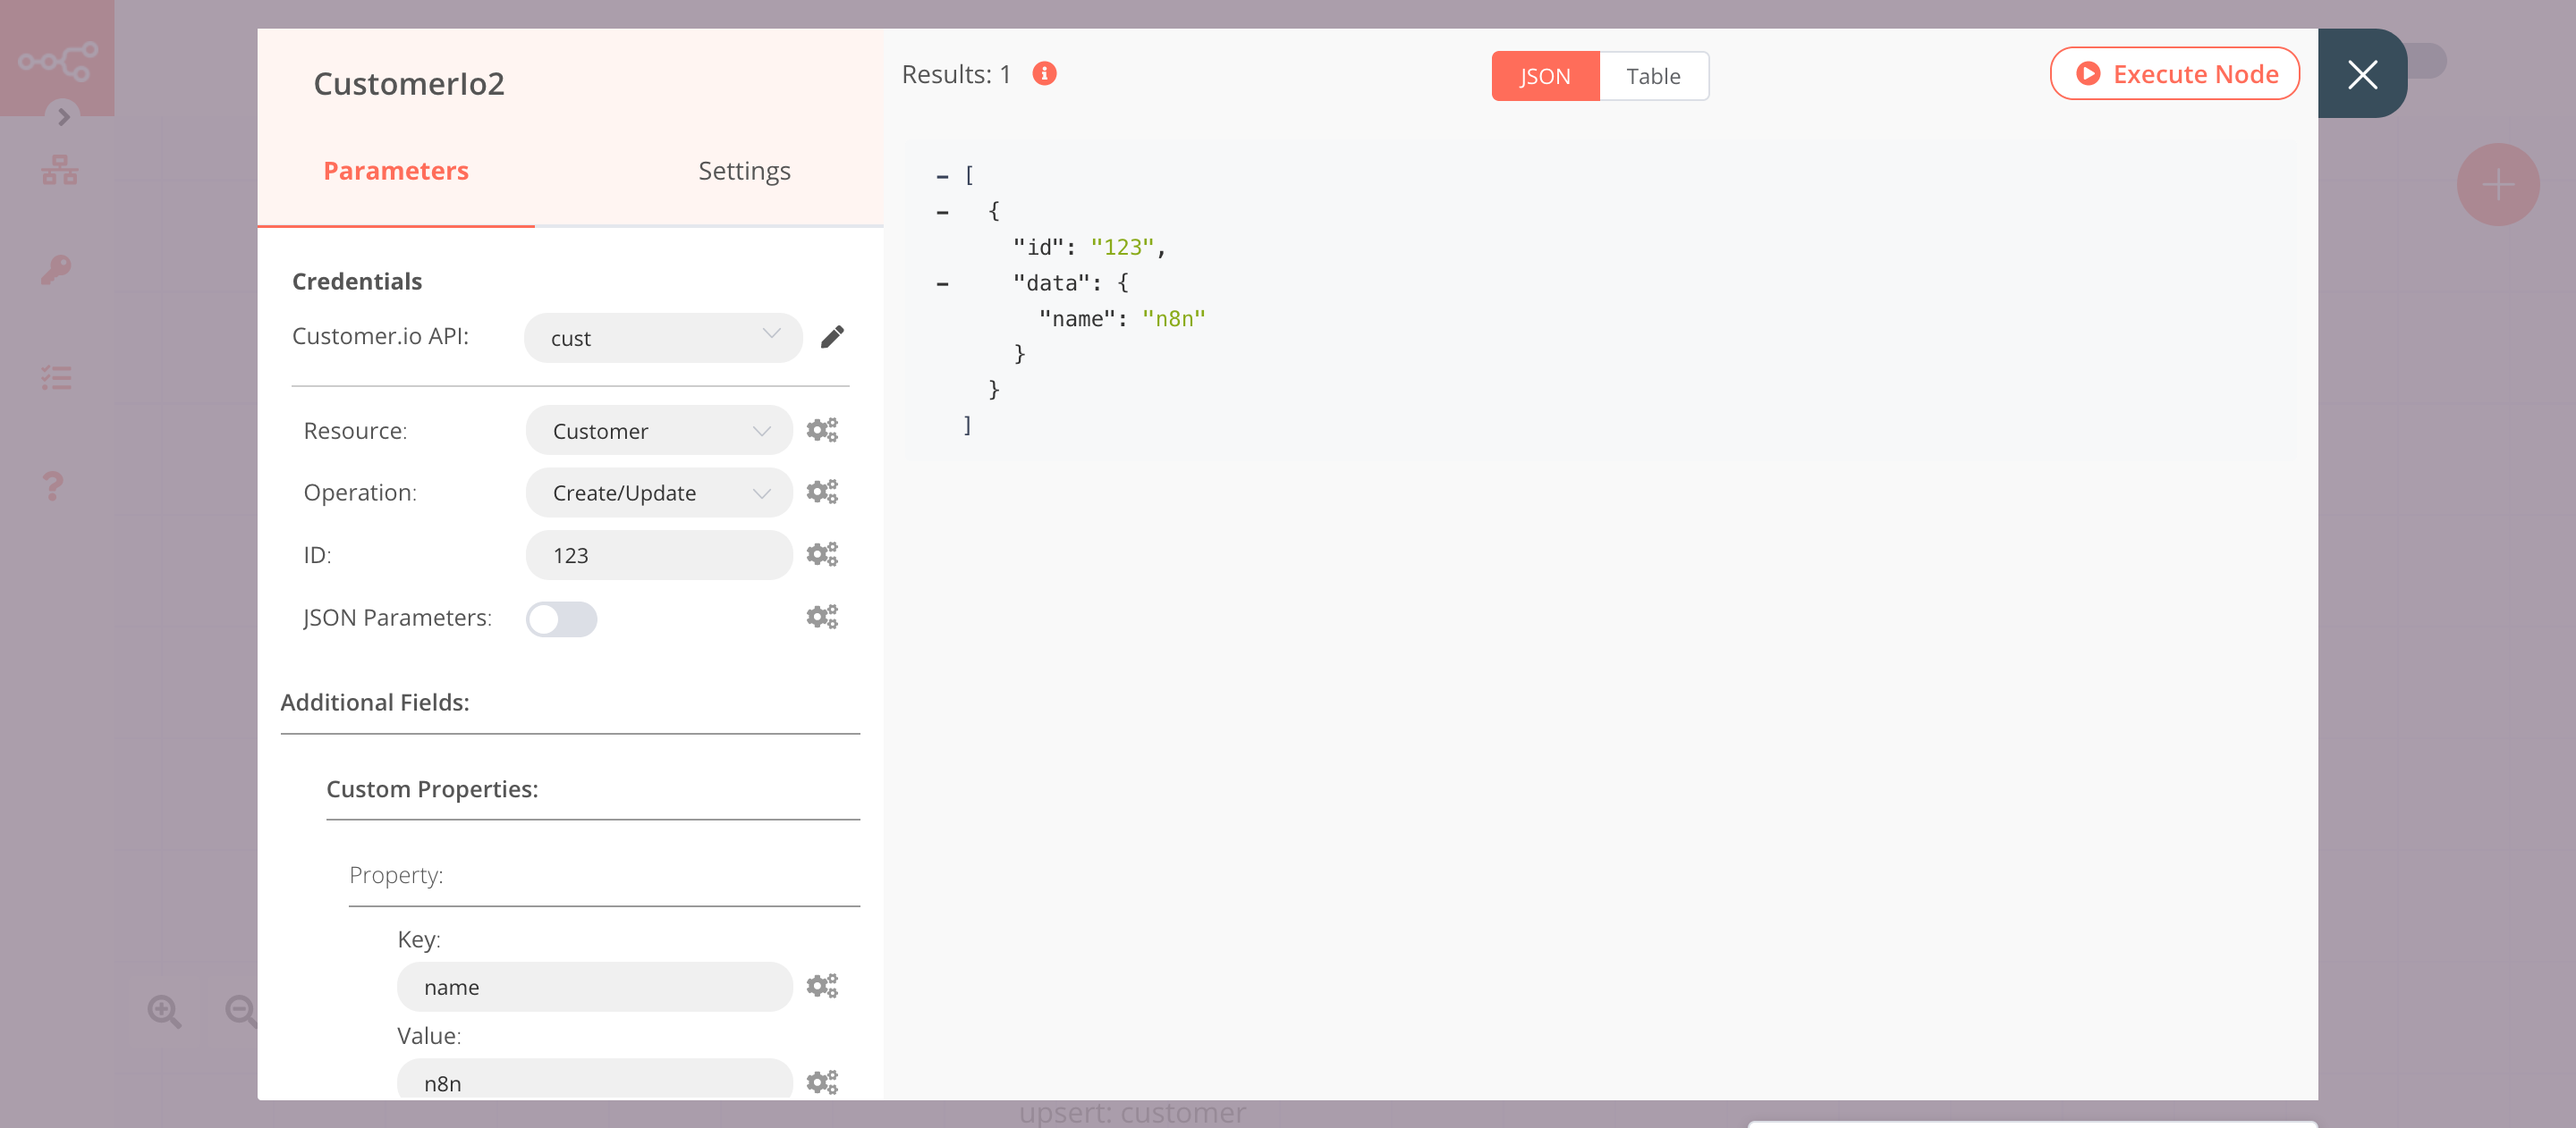
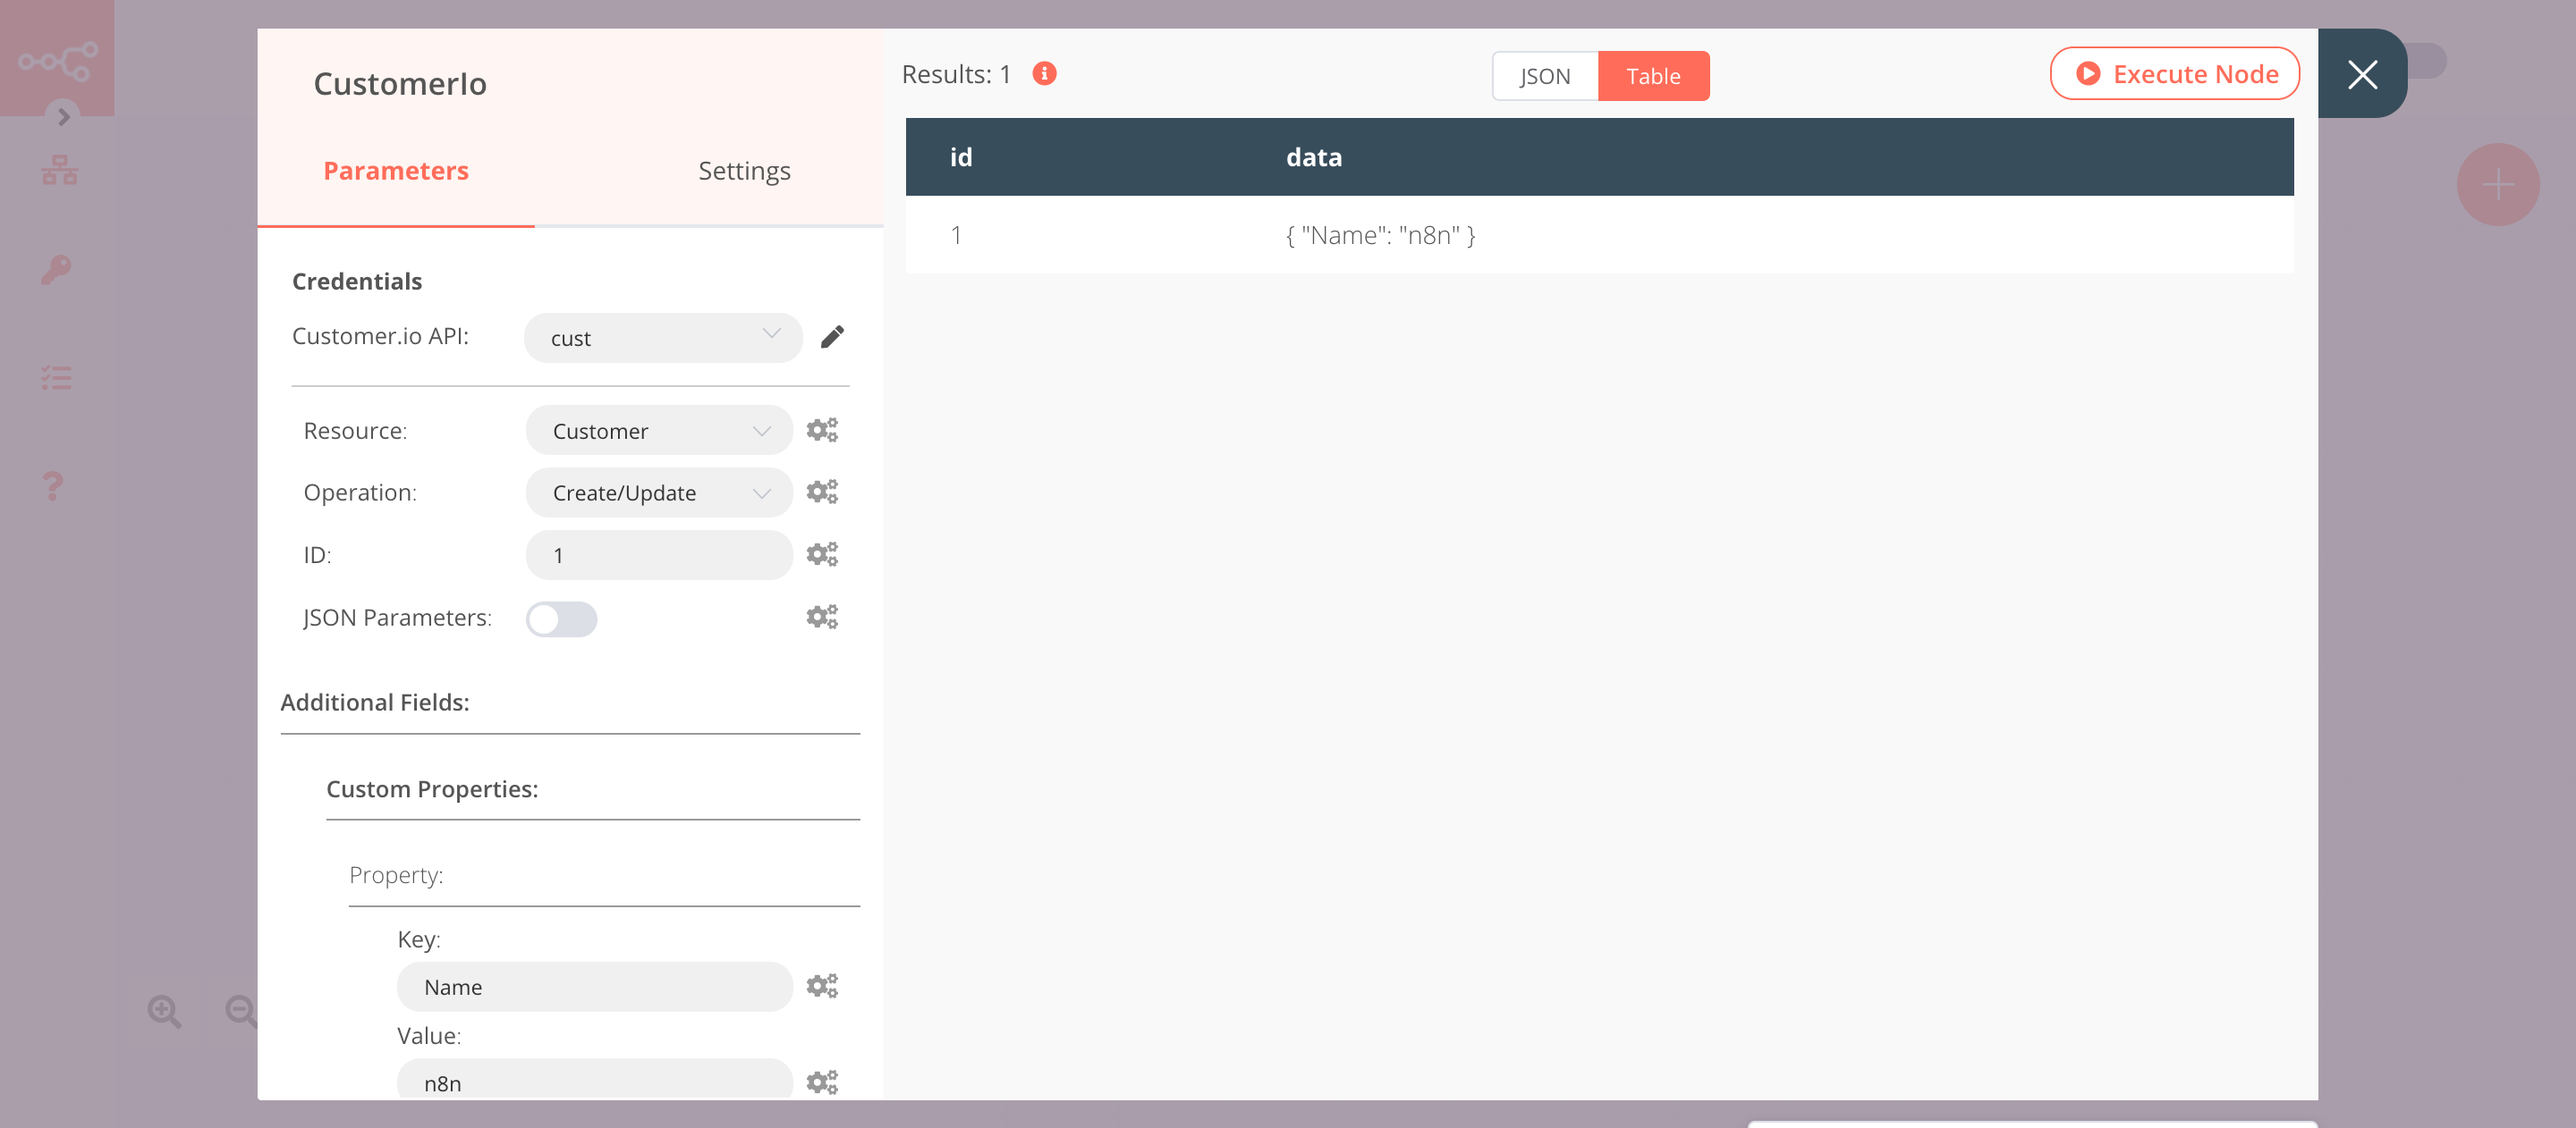
:hammer: Update Workflow

Changed region(s): [[0.3438, 0.0309, 0.9062, 0.2163], [0.4062, 0.2472, 0.4375, 0.309], [0.1562, 0.8653, 0.1875, 0.8962]]

diff --git a/docs/nodes/nodes-library/nodes/CustomerIo/README.md b/docs/nodes/nodes-library/nodes/CustomerIo/README.md
@@ -29,7 +29,7 @@ You can find authentication information for this node [here](../../../credential
 
 ## Example Usage
 
-This workflow allows you to update a customer's information and add them to the segment in Customer.io. You can also find the [workflow](https://n8n.io/workflows/646) on n8n.io. This example usage workflow would use the following nodes.
+This workflow allows you to create a customer and add them to a segment in Customer.io. You can also find the [workflow](https://n8n.io/workflows/646) on n8n.io. This example usage workflow would use the following nodes.
 - [Start](../../core-nodes/Start/README.md)
 - [Customer.io]()
 
@@ -44,21 +44,21 @@ The start node exists by default when you create a new workflow.
 ### 2. CustomerIo node (upsert: customer)
 
 1. First of all, you'll have to enter credentials for the Customer.io node. You can find out how to do that [here](../../../credentials/CustomerIo/README.md).
-2. Enter the customer id in the ***ID*** field.
-4. Click on the ***Node*** tab and toggle ***Always Output Data*** to true.
-5. Select 'Custom Properties' from the ***Add Field*** dropdown list.
-6. Click on the ***Choose Option to Add***.
-7. Enter `name` in the ***Key*** field.
-8. Enter the name of the customer in the ***Value*** field.
-9. Click on ***Execute Node*** to run the node.
+2. Enter a customer id in the ***ID*** field.
+3. Select 'Custom Properties' from the ***Add Field*** dropdown list.
+4. Click on the ***Choose Option to Add***.
+5. Enter `name` in the ***Key*** field.
+6. Enter the name of the customer in the ***Value*** field.
+7. Click on ***Execute Node*** to run the node.
 
-![Using the Customer.io node to update a customer's information](./CustomerIo_node.png)
+![Using the Customer.io node to create a new customer](./CustomerIo_node.png)
 
 ### 3. CustomerIo node (add: segment)
 
 1. Select the credentials that you entered in the previous Customer.io node.
 2. Select 'Segment' from the ***Resource*** field.
-3. Enter the customer id in the ***Customer IDs*** field.
+3. Click on the gears icon next to the ***Customer IDs*** field and click on ***Add Expression***.
+4. Select the following in the ***Variable Selector*** section: Nodes > CustomerIo > Output Data > JSON > id. You can also add the following expression: `{{$node["CustomerIo"].json["id"]}}`.
 4. Click on ***Execute Node*** to run the node.
 
 ![Using the Customer.io node to add the customer to a segment](./CustomerIo1_node.png)
